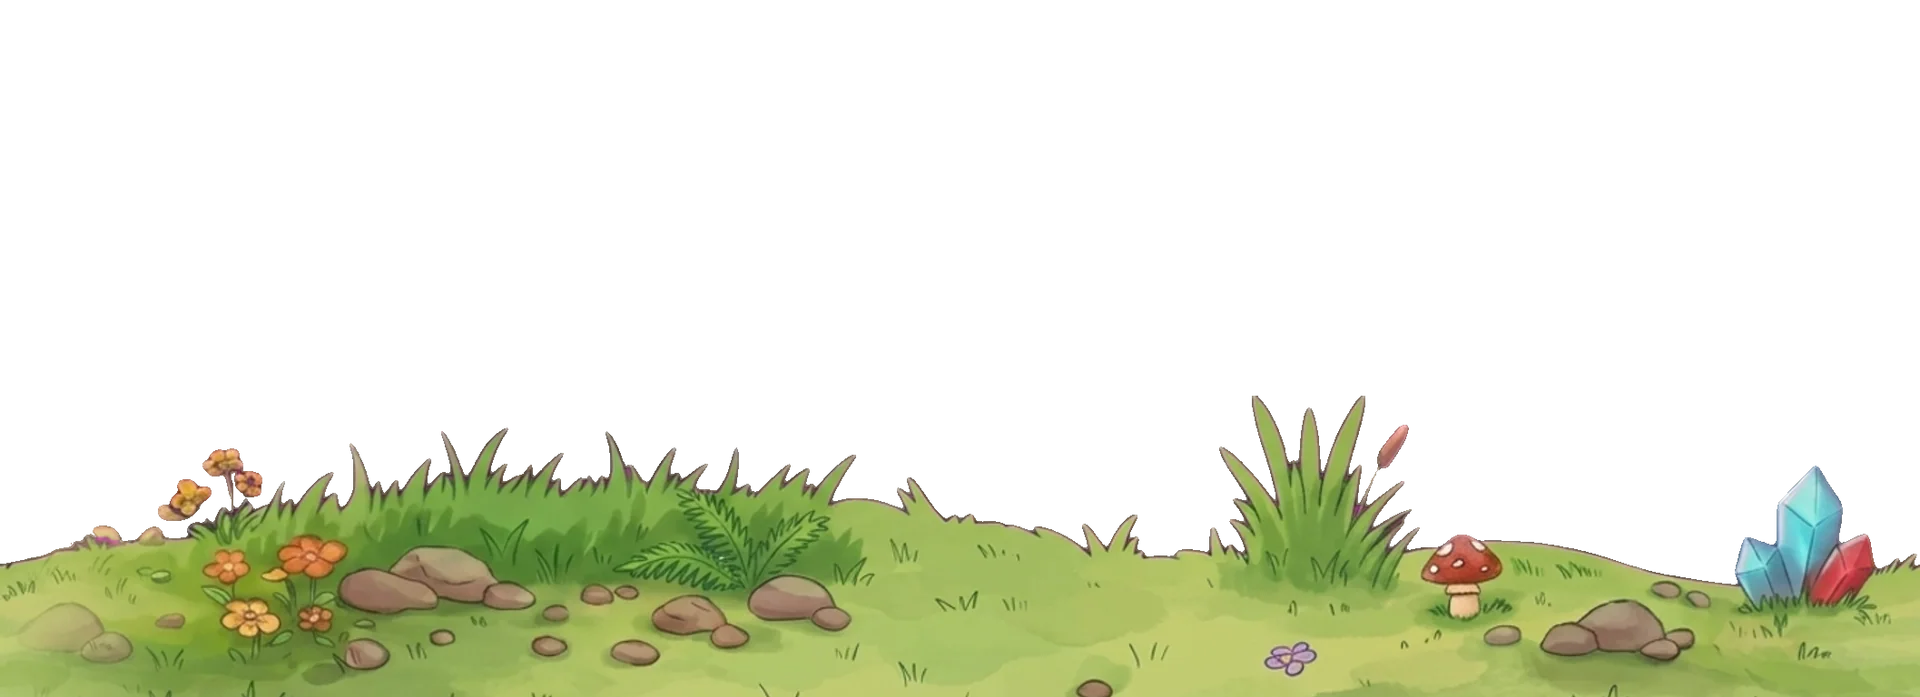
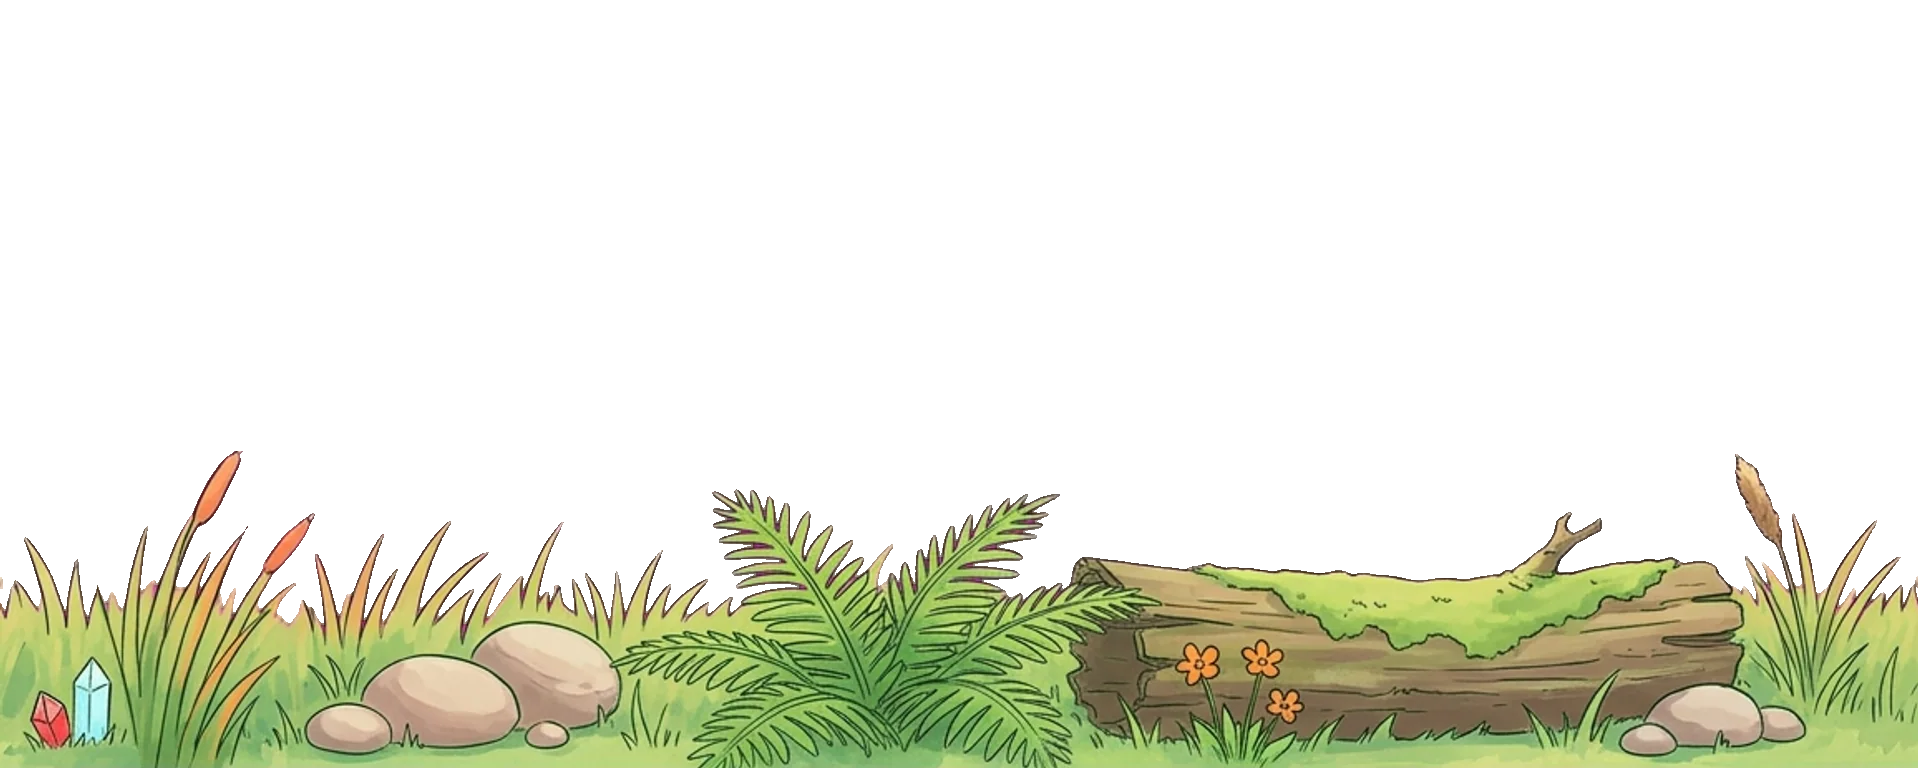
feat(valley): a freshly generated near band, its ends joined along the best matching path
Claude-Session: https://claude.ai/code/session_01MAZwqVJqrTUDA5csgByiYr

Changed region(s): [[0.0, 0.5725, 1.0, 1.0]]

diff --git a/assets-src/PROMPTS.md b/assets-src/PROMPTS.md
@@ -44,7 +44,8 @@ Notes from real Gemini runs; add new ones here.
   shape. Name the shape instead ("a soft pale cream teardrop core").
 - A near band the owner drew as one tall picture kept a soft pink halo on its grass tips that no
   keying cleaned; the sheet of low strips (near prompt) comes with crisp edges. A seam repaint of
-  such a strip came back tinted purple: crossfading the strip's own calm ends is safer.
+  such a strip came back tinted purple: joining the strip's own two ends along the column path
+  where they match best is safer. Attaching a picture as a style sample makes Gemini copy it.
 - Pictures of one set (the four flames) come out alike only from one chat, or with the first
   one attached; separate chats drift in shape and color.
 - A vague technical object ("a round gate with three panels") turns into a character with a
@@ -470,7 +471,7 @@ flat storybook style and no longer apply.
 | `bg-planet-near.jpg` | (the owner's picture, 2026-10-28) a sandy path with pebbles, small crystals and mushrooms along its upper edge, calm grass below | full | done 2026-10-28 (seam by Gemini, tint cleaned, moved down 240 px: the path's middle at 89 % of the stage, where Tapko walks) |
 | `bg-dragons-far.jpg` | a peaceful dragon valley at sunset, warm orange and pink colours in the sky, the sun hidden behind the mountains, soft rounded mountains and a waterfall | full | done 2026-10-23 |
 | `bg-dragons-mid.jpg` | (the owner's picture, redrawn 2026-10-29) grey rocks with moss, a cave with a glowing crystal, a tree with orange blossoms, a big fly agaric on a grassy hill, then a wide calm meadow | full | done 2026-10-29 (seam by Gemini, moved down 224 px: its top at 55 % from the bottom) |
-| `bg-dragons-near.jpg` | (generated 2026-10-29 with the near prompt above, the owner's picture attached for style; PLANTS: fresh green grass with grass tufts, small round brown pebbles, small orange and yellow flowers, a fern, one small red fly agaric, one light blue and red crystal cluster; "no soft or blurry edge, no shadow on the magenta", "no pink, purple or violet") | 27 % | done 2026-10-29 (sheet of three strips, the middle one; Gemini's seam repaint tinted the grass purple twice, so the strip's two calm grass ends are crossfaded over 120 px instead; scaled up 1.54 so its top is at 27 % from the bottom: the tile is 1920 x 697) |
+| `bg-dragons-near.jpg` | (generated 2026-10-29 with the near prompt above, nothing attached, strips of about 210 px; PLANTS: tall grass blades with orange tips, round smooth pebbles, a big fern, a mossy fallen log, small orange wildflowers, a dry reed, a tiny red fly agaric mushroom, two or three very small light blue and red crystals half hidden in the grass) | 27 % | done 2026-10-29 (sheet of three strips, the middle one; its two grassy ends joined along the column path where they match best (quilt repeated the log, Gemini's seam tinted it purple); scaled up 1.66 so its grass is at 27 % from the bottom: the tile is 1918 x 768) |
 | `bg-egg-far.jpg` | a bright morning valley with a long gentle grassy slope going down from left to right, a few trees and a blue river far away | full | done 2026-10-23 |
 | `bg-egg-mid.jpg` | a bush with yellow flowers, a leaning tree, a mossy boulder, a haystack, a pine, a bush with pink flowers, a signpost with empty boards and a rocky outcrop with ferns | 50 % | done 2026-10-23 |
 | `bg-egg-near.jpg` | only plants and small things: grass, yellow flowers, a pink wild rose, foxtail, a fern, a broken spotted eggshell, daisies, a mushroom and a thistle; no big rocks | 20 % | done 2026-10-23 |
